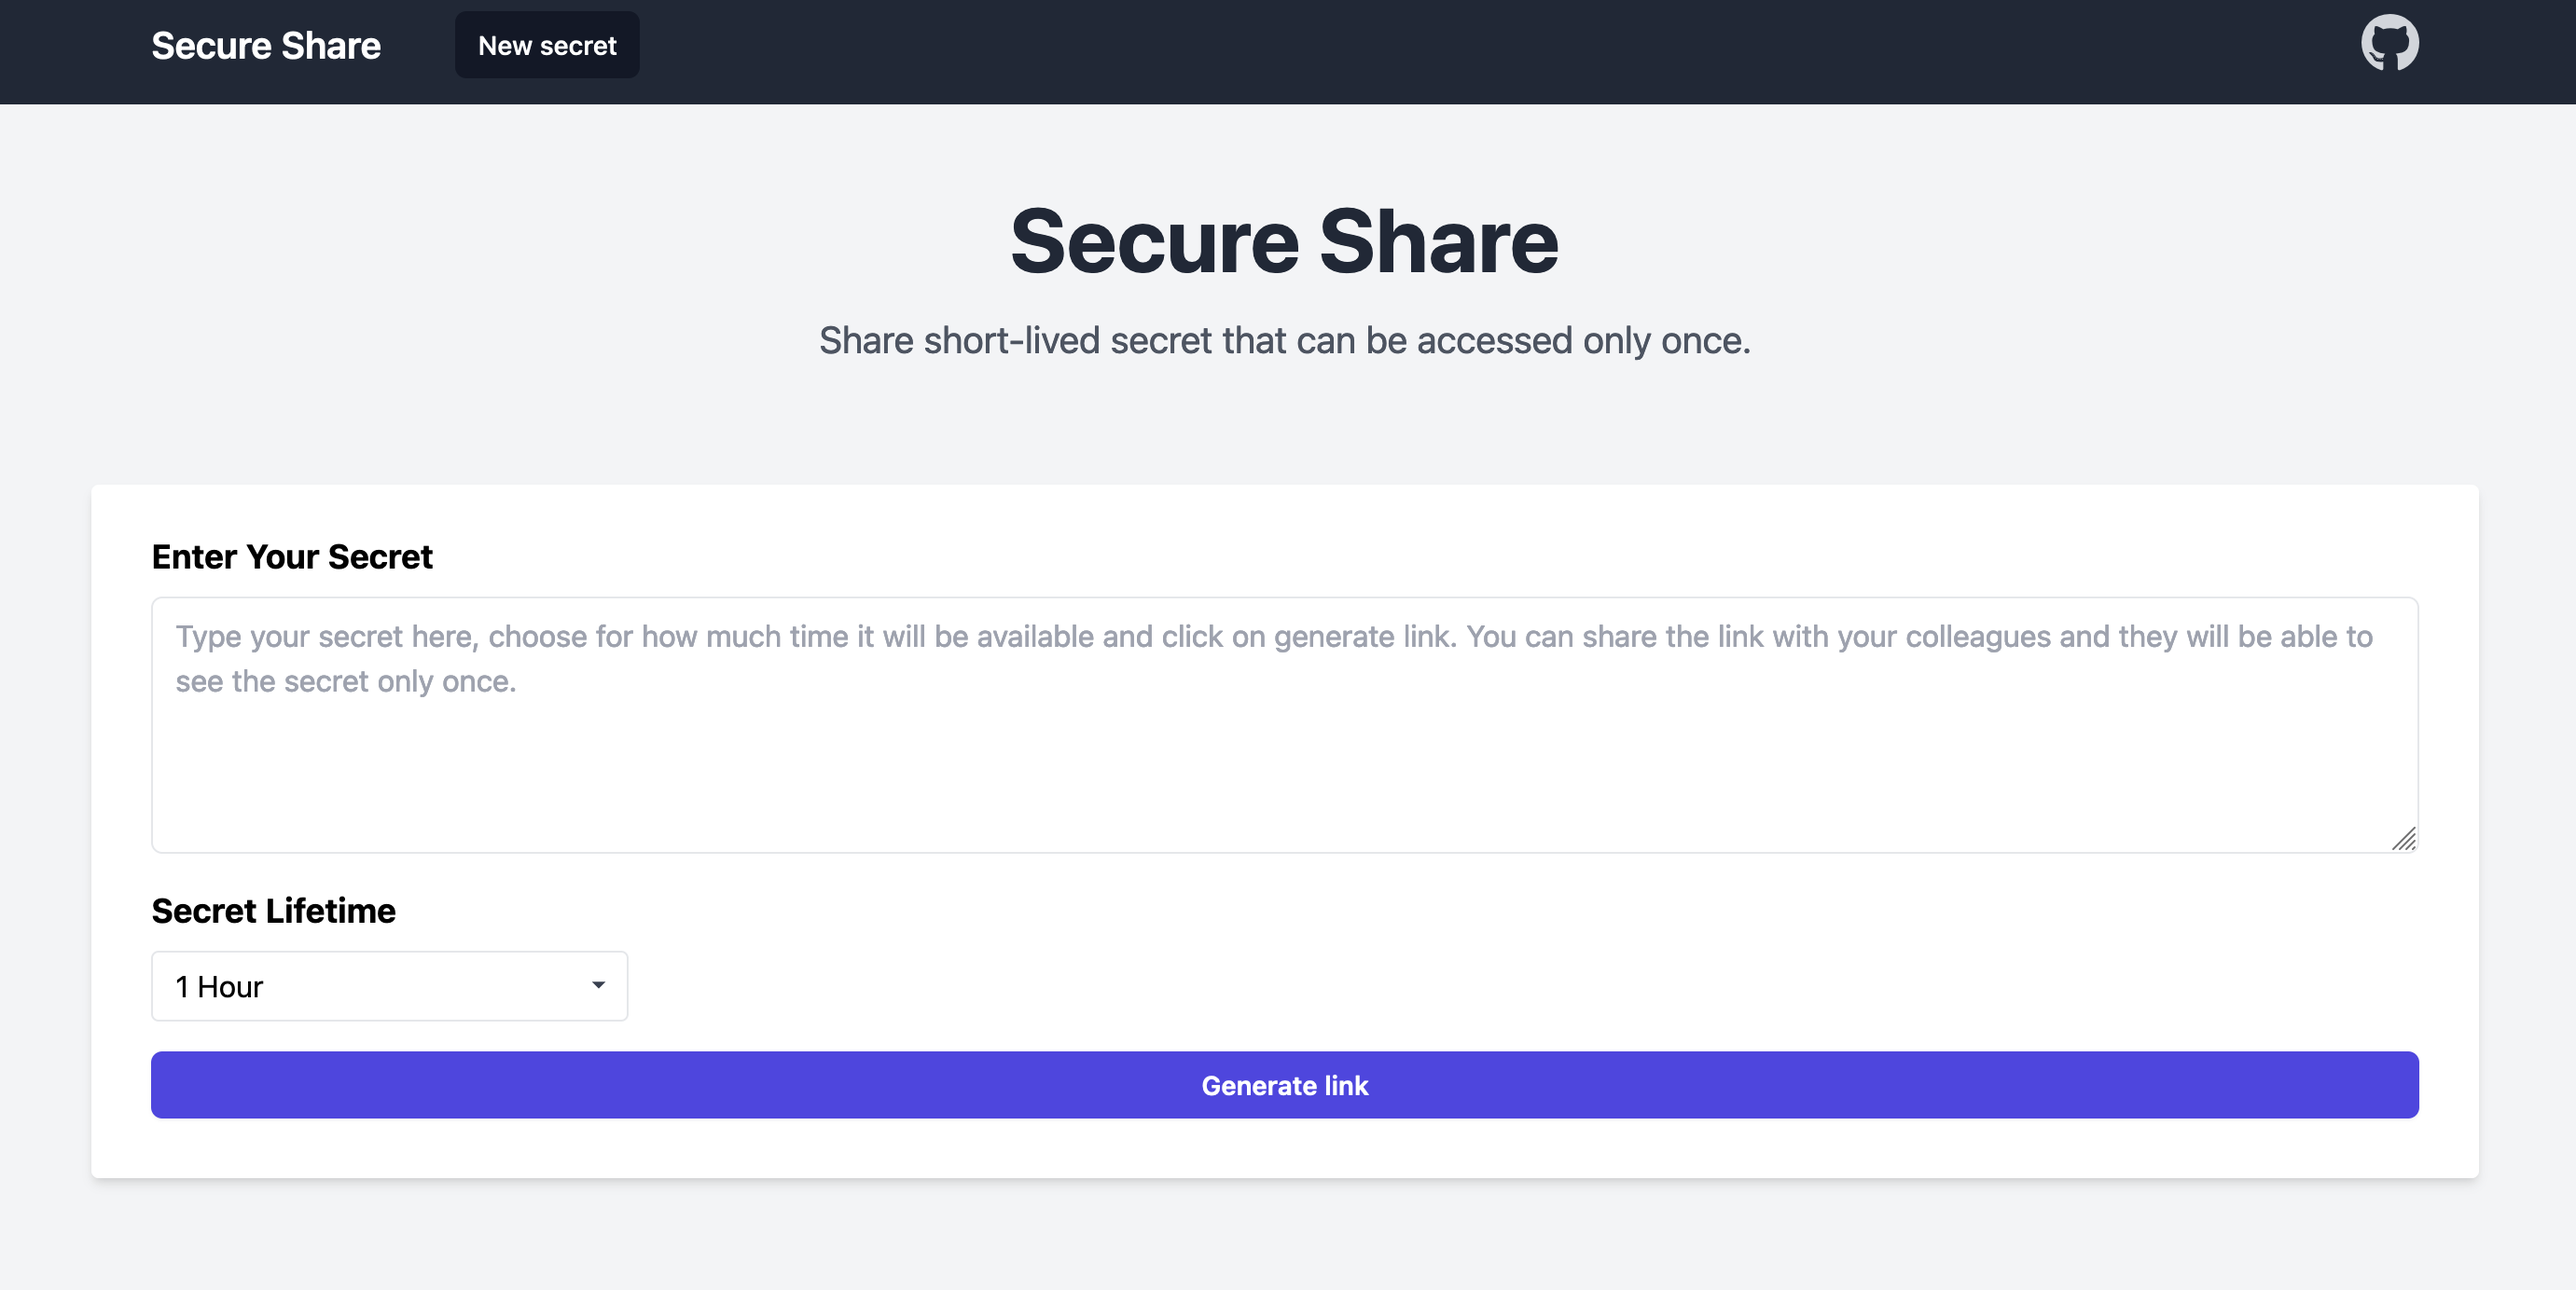
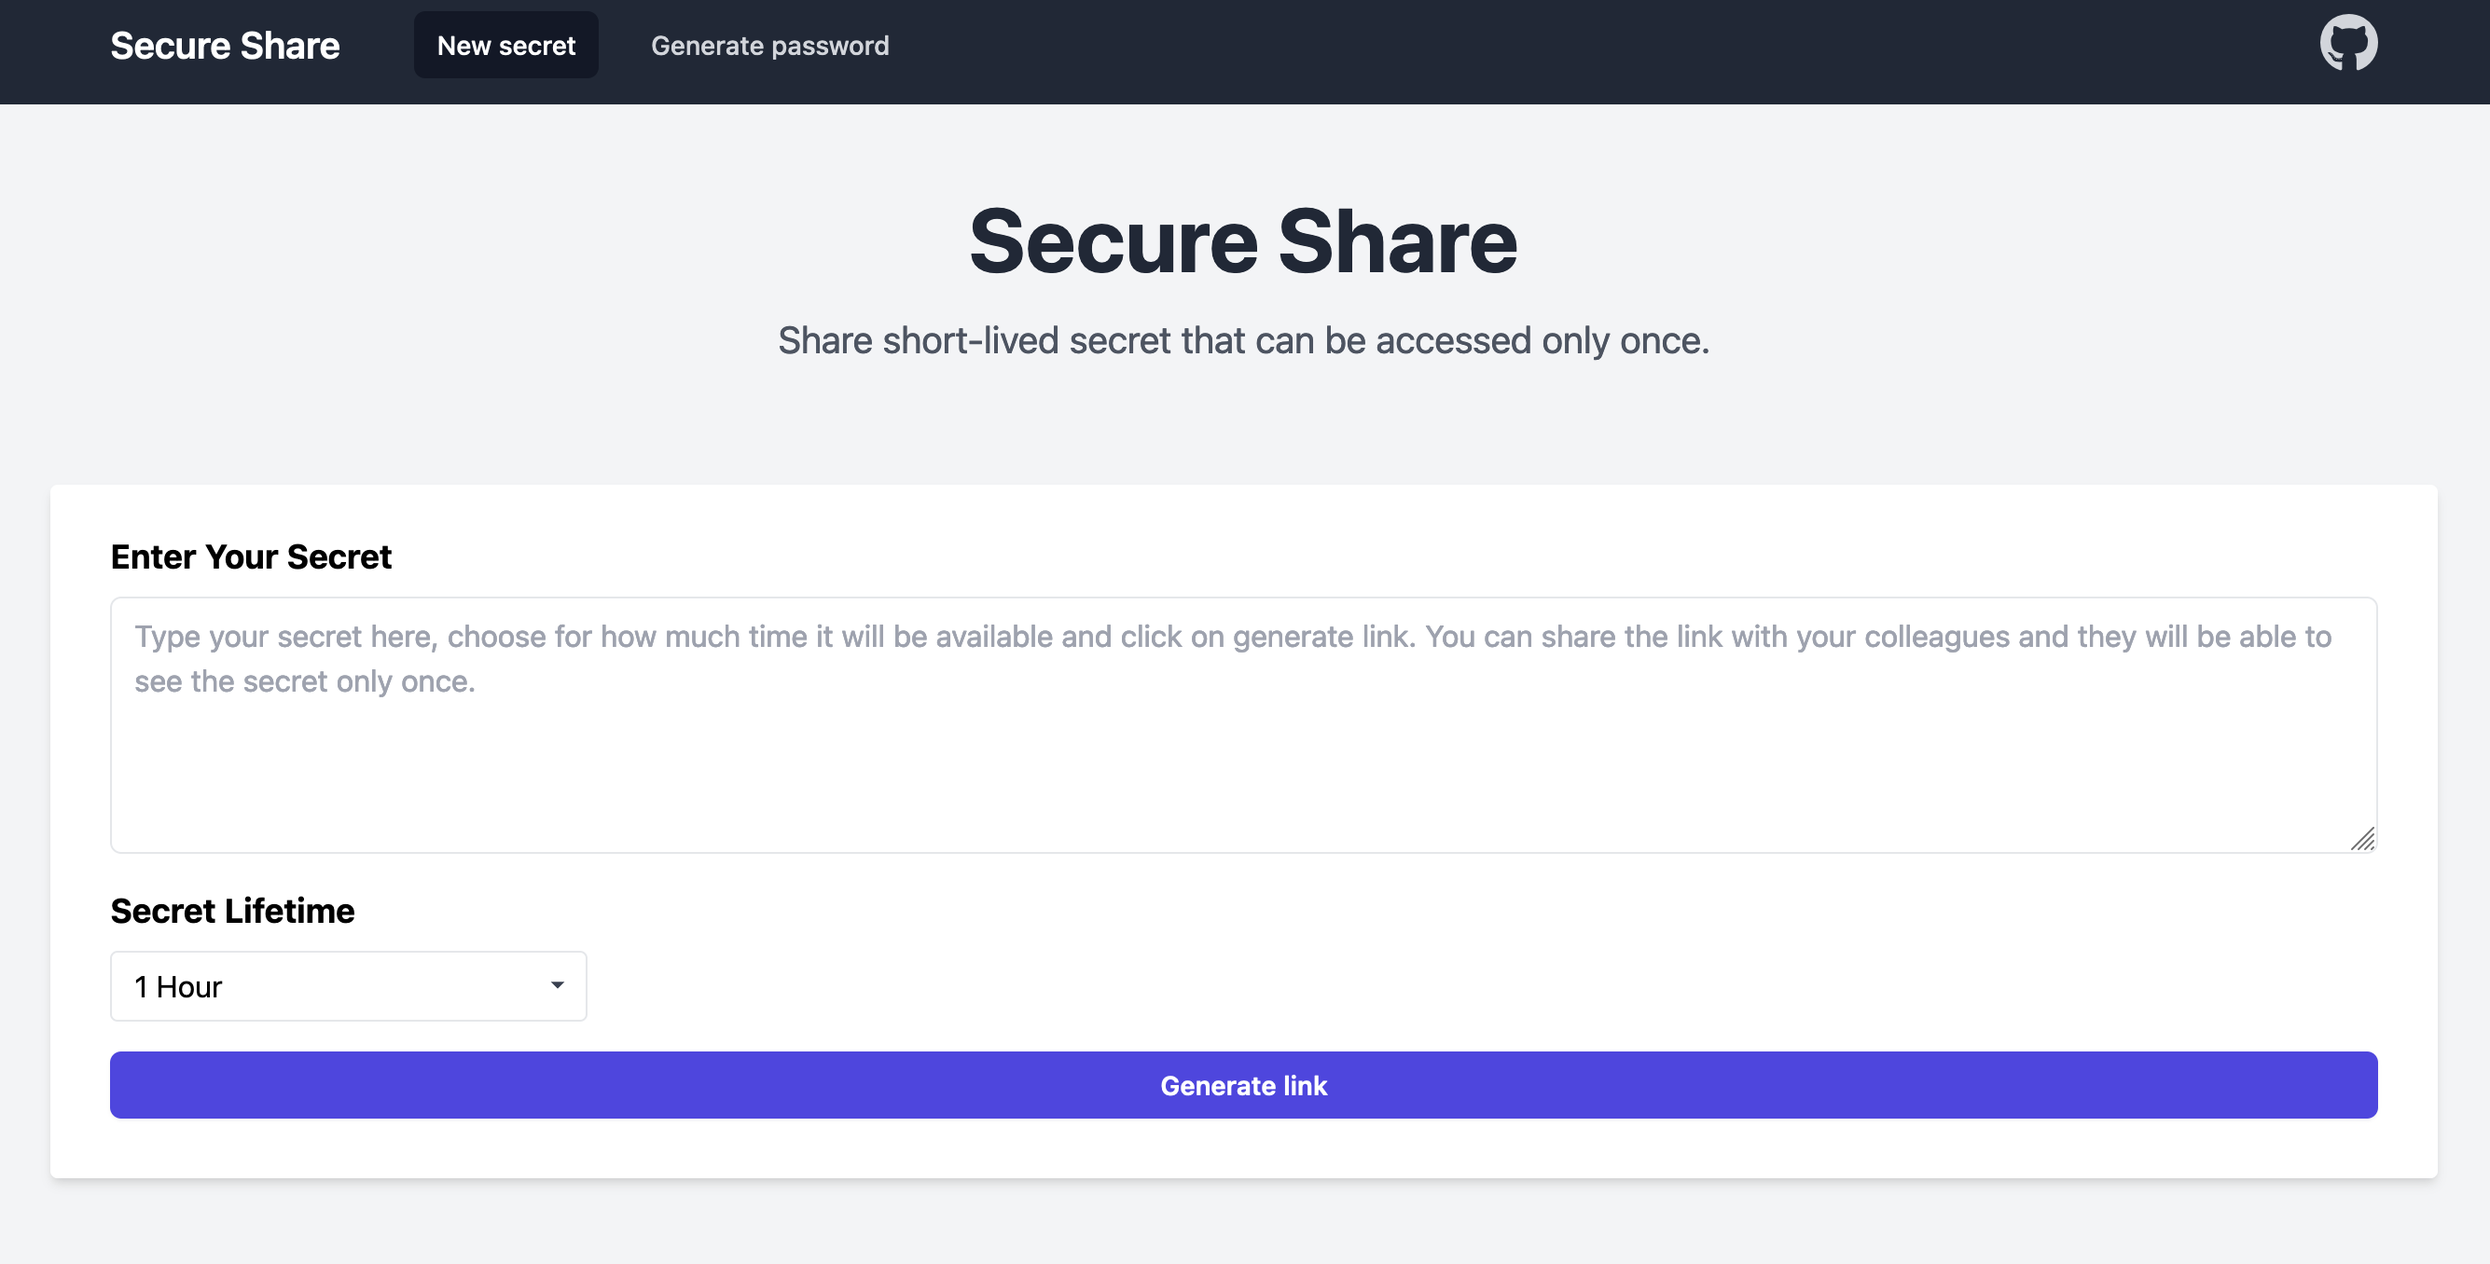
updated readme, cleanup

diff --git a/README.md b/README.md
@@ -20,6 +20,7 @@
   - In-Memory Store: for quick testing or simpler use cases, an in-memory store is available, requiring no external     dependencies.
 - Robust Encryption: Utilizes the Fernet encryption algorithm. The Fernet key is derived a UUID with `pbkdf2`, ensuring that the secret and the key are never stored together.
 - Ephemeral Secrets: Combines the TTL feature of the Fernet algorithm with the TTL of the store, guaranteeing that secrets are truly ephemeral.
+- Secure password generator.
 
 ## Notes on encryption
 
